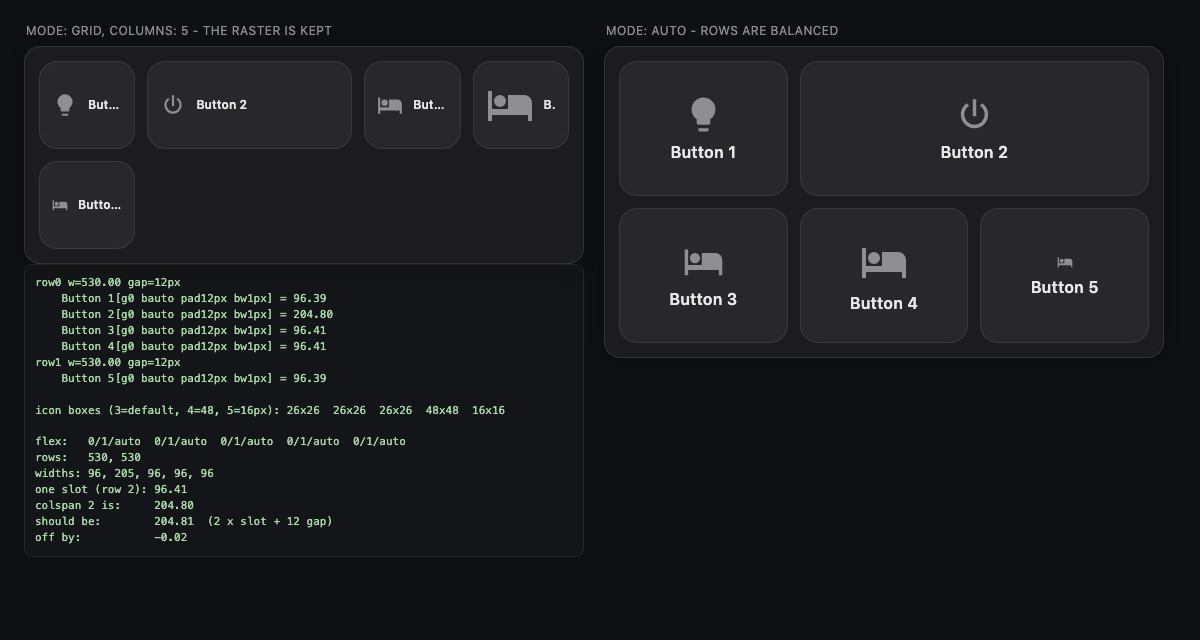
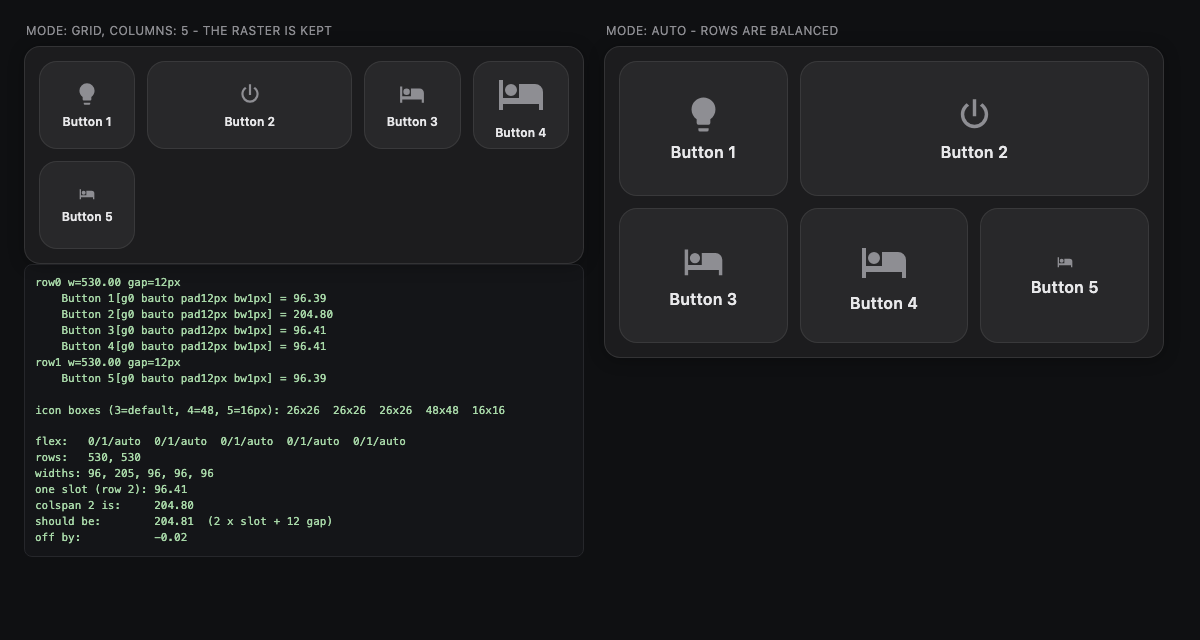
Make the inner button arrangement a choice instead of a guess
The same configuration looked different on two screens: a button flipped from icon-above-text to icon-beside-text once it fell below 96px tall, and the height follows the column width. The guess was usually wrong too - beside a 26px icon a narrow button leaves the label a fraction of its width, where stacking gives it all of it. Horizontal earns its place on buttons that are wide and flat, and the card cannot tell those apart: the height it works from is derived from the width, so the two are never distinguishable, and reading the rendered height would feed the layout back into itself. Tightening the condition to require width as well made the horizontal branch unreachable, which settled it. button.layout now says which one, per card or per button, and names wrap to a second line rather than being clipped to a fragment.

diff --git a/tools/demo/icons.js b/tools/demo/icons.js
@@ -2,6 +2,7 @@
 export const ICONS = {
   "mdi:alert": "M13 14H11V9H13M13 18H11V16H13M1 21H23L12 2L1 21Z",
   "mdi:bed": "M19,7H11V14H3V5H1V20H3V17H21V20H23V11A4,4 0 0,0 19,7M7,13A3,3 0 0,0 10,10A3,3 0 0,0 7,7A3,3 0 0,0 4,10A3,3 0 0,0 7,13Z",
+  "mdi:broom": "M19.36,2.72L20.78,4.14L15.06,9.85C16.13,11.39 16.28,13.24 15.38,14.44L9.06,8.12C10.26,7.22 12.11,7.37 13.65,8.44L19.36,2.72M5.93,17.57C3.92,15.56 2.69,13.16 2.35,10.92L7.23,8.83L14.67,16.27L12.58,21.15C10.34,20.81 7.94,19.58 5.93,17.57Z",
   "mdi:coffee-maker": "M18 6V4H20V2H6C4.9 2 4 2.9 4 4V20C4 21.1 4.9 22 6 22H20V20H15.97C17.2 19.09 18 17.64 18 16V11H8V16C8 17.64 8.81 19.09 10.03 20H6V4H8V6C8 6.55 8.45 7 9 7H17C17.55 7 18 6.55 18 6M13 8C13.55 8 14 8.45 14 9S13.55 10 13 10 12 9.55 12 9 12.45 8 13 8Z",
   "mdi:countertop": "M18 10V7C18 5.34 16.66 4 15 4S12 5.34 12 7H14C14 6.45 14.45 6 15 6S16 6.45 16 7V10H8C9.1 10 10 9.1 10 8V4H4V8C4 9.1 4.9 10 6 10H2V12H4V20H20V12H22V10H18M13 18H11V12H13V18Z",
   "mdi:desk-lamp": "M10.85,2L9.18,4.5L10.32,5.25L7.14,10C7.1,10 7.05,10 7,10A2,2 0 0,0 5,12C5,12.94 5.66,13.75 6.58,13.95L10.62,20H7V22H17V20H13L8.53,13.28C8.83,12.92 9,12.47 9,12C9,11.7 8.93,11.4 8.8,11.13L12,6.37C11.78,8.05 12.75,9.89 14.45,11L18.89,4.37C17.2,3.24 15.12,3.04 13.65,3.87L10.85,2M18.33,7L16.67,9.5C17.35,9.95 18.29,9.77 18.75,9.08C19.21,8.39 19,7.46 18.33,7Z",
@@ -16,6 +17,7 @@ export const ICONS = {
   "mdi:lightbulb-off": "M12,2C9.76,2 7.78,3.05 6.5,4.68L16.31,14.5C17.94,13.21 19,11.24 19,9A7,7 0 0,0 12,2M3.28,4L2,5.27L5.04,8.3C5,8.53 5,8.76 5,9C5,11.38 6.19,13.47 8,14.74V17A1,1 0 0,0 9,18H14.73L18.73,22L20,20.72L3.28,4M9,20V21A1,1 0 0,0 10,22H14A1,1 0 0,0 15,21V20H9Z",
   "mdi:lightbulb-outline": "M12,2A7,7 0 0,1 19,9C19,11.38 17.81,13.47 16,14.74V17A1,1 0 0,1 15,18H9A1,1 0 0,1 8,17V14.74C6.19,13.47 5,11.38 5,9A7,7 0 0,1 12,2M9,21V20H15V21A1,1 0 0,1 14,22H10A1,1 0 0,1 9,21M12,4A5,5 0 0,0 7,9C7,11.05 8.23,12.81 10,13.58V16H14V13.58C15.77,12.81 17,11.05 17,9A5,5 0 0,0 12,4Z",
   "mdi:lock": "M12,17A2,2 0 0,0 14,15C14,13.89 13.1,13 12,13A2,2 0 0,0 10,15A2,2 0 0,0 12,17M18,8A2,2 0 0,1 20,10V20A2,2 0 0,1 18,22H6A2,2 0 0,1 4,20V10C4,8.89 4.9,8 6,8H7V6A5,5 0 0,1 12,1A5,5 0 0,1 17,6V8H18M12,3A3,3 0 0,0 9,6V8H15V6A3,3 0 0,0 12,3Z",
+  "mdi:motion-sensor": "M10,0.2C9,0.2 8.2,1 8.2,2C8.2,3 9,3.8 10,3.8C11,3.8 11.8,3 11.8,2C11.8,1 11,0.2 10,0.2M15.67,1A7.33,7.33 0 0,0 23,8.33V7A6,6 0 0,1 17,1H15.67M18.33,1C18.33,3.58 20.42,5.67 23,5.67V4.33C21.16,4.33 19.67,2.84 19.67,1H18.33M21,1A2,2 0 0,0 23,3V1H21M7.92,4.03C7.75,4.03 7.58,4.06 7.42,4.11L2,5.8V11H3.8V7.33L5.91,6.67L2,22H3.8L6.67,13.89L9,17V22H10.8V15.59L8.31,11.05L9.04,8.18L10.12,10H15V8.2H11.38L9.38,4.87C9.08,4.37 8.54,4.03 7.92,4.03Z",
   "mdi:palette": "M17.5,12A1.5,1.5 0 0,1 16,10.5A1.5,1.5 0 0,1 17.5,9A1.5,1.5 0 0,1 19,10.5A1.5,1.5 0 0,1 17.5,12M14.5,8A1.5,1.5 0 0,1 13,6.5A1.5,1.5 0 0,1 14.5,5A1.5,1.5 0 0,1 16,6.5A1.5,1.5 0 0,1 14.5,8M9.5,8A1.5,1.5 0 0,1 8,6.5A1.5,1.5 0 0,1 9.5,5A1.5,1.5 0 0,1 11,6.5A1.5,1.5 0 0,1 9.5,8M6.5,12A1.5,1.5 0 0,1 5,10.5A1.5,1.5 0 0,1 6.5,9A1.5,1.5 0 0,1 8,10.5A1.5,1.5 0 0,1 6.5,12M12,3A9,9 0 0,0 3,12A9,9 0 0,0 12,21A1.5,1.5 0 0,0 13.5,19.5C13.5,19.11 13.35,18.76 13.11,18.5C12.88,18.23 12.73,17.88 12.73,17.5A1.5,1.5 0 0,1 14.23,16H16A5,5 0 0,0 21,11C21,6.58 16.97,3 12,3Z",
   "mdi:power": "M16.56,5.44L15.11,6.89C16.84,7.94 18,9.83 18,12A6,6 0 0,1 12,18A6,6 0 0,1 6,12C6,9.83 7.16,7.94 8.88,6.88L7.44,5.44C5.36,6.88 4,9.28 4,12A8,8 0 0,0 12,20A8,8 0 0,0 20,12C20,9.28 18.64,6.88 16.56,5.44M13,3H11V13H13",
   "mdi:radiator": "M7.95,3L6.53,5.19L7.95,7.4H7.94L5.95,10.5L4.22,9.6L5.64,7.39L4.22,5.19L6.22,2.09L7.95,3M13.95,2.89L12.53,5.1L13.95,7.3L13.94,7.31L11.95,10.4L10.22,9.5L11.64,7.3L10.22,5.1L12.22,2L13.95,2.89M20,2.89L18.56,5.1L20,7.3V7.31L18,10.4L16.25,9.5L17.67,7.3L16.25,5.1L18.25,2L20,2.89M2,22V14A2,2 0 0,1 4,12H20A2,2 0 0,1 22,14V22H20V20H4V22H2M6,14A1,1 0 0,0 5,15V17A1,1 0 0,0 6,18A1,1 0 0,0 7,17V15A1,1 0 0,0 6,14M10,14A1,1 0 0,0 9,15V17A1,1 0 0,0 10,18A1,1 0 0,0 11,17V15A1,1 0 0,0 10,14M14,14A1,1 0 0,0 13,15V17A1,1 0 0,0 14,18A1,1 0 0,0 15,17V15A1,1 0 0,0 14,14M18,14A1,1 0 0,0 17,15V17A1,1 0 0,0 18,18A1,1 0 0,0 19,17V15A1,1 0 0,0 18,14Z",
@@ -33,6 +35,7 @@ export const ICONS = {
   "mdi:washing-machine": "M14.83,11.17C16.39,12.73 16.39,15.27 14.83,16.83C13.27,18.39 10.73,18.39 9.17,16.83L14.83,11.17M6,2H18A2,2 0 0,1 20,4V20A2,2 0 0,1 18,22H6A2,2 0 0,1 4,20V4A2,2 0 0,1 6,2M7,4A1,1 0 0,0 6,5A1,1 0 0,0 7,6A1,1 0 0,0 8,5A1,1 0 0,0 7,4M10,4A1,1 0 0,0 9,5A1,1 0 0,0 10,6A1,1 0 0,0 11,5A1,1 0 0,0 10,4M12,8A6,6 0 0,0 6,14A6,6 0 0,0 12,20A6,6 0 0,0 18,14A6,6 0 0,0 12,8Z",
   "mdi:water-percent": "M12,3.25C12,3.25 6,10 6,14C6,17.32 8.69,20 12,20A6,6 0 0,0 18,14C18,10 12,3.25 12,3.25M14.47,9.97L15.53,11.03L9.53,17.03L8.47,15.97M9.75,10A1.25,1.25 0 0,1 11,11.25A1.25,1.25 0 0,1 9.75,12.5A1.25,1.25 0 0,1 8.5,11.25A1.25,1.25 0 0,1 9.75,10M14.25,14.5A1.25,1.25 0 0,1 15.5,15.75A1.25,1.25 0 0,1 14.25,17A1.25,1.25 0 0,1 13,15.75A1.25,1.25 0 0,1 14.25,14.5Z",
   "mdi:weather-night": "M17.75,4.09L15.22,6.03L16.13,9.09L13.5,7.28L10.87,9.09L11.78,6.03L9.25,4.09L12.44,4L13.5,1L14.56,4L17.75,4.09M21.25,11L19.61,12.25L20.2,14.23L18.5,13.06L16.8,14.23L17.39,12.25L15.75,11L17.81,10.95L18.5,9L19.19,10.95L21.25,11M18.97,15.95C19.8,15.87 20.69,17.05 20.16,17.8C19.84,18.25 19.5,18.67 19.08,19.07C15.17,23 8.84,23 4.94,19.07C1.03,15.17 1.03,8.83 4.94,4.93C5.34,4.53 5.76,4.17 6.21,3.85C6.96,3.32 8.14,4.21 8.06,5.04C7.79,7.9 8.75,10.87 10.95,13.06C13.14,15.26 16.1,16.22 18.97,15.95M17.33,17.97C14.5,17.81 11.7,16.64 9.53,14.5C7.36,12.31 6.2,9.5 6.04,6.68C3.23,9.82 3.34,14.64 6.35,17.66C9.37,20.67 14.19,20.78 17.33,17.97Z",
+  "mdi:weather-rainy": "M6,14.03A1,1 0 0,1 7,15.03C7,15.58 6.55,16.03 6,16.03C3.24,16.03 1,13.79 1,11.03C1,8.27 3.24,6.03 6,6.03C7,3.68 9.3,2.03 12,2.03C15.43,2.03 18.24,4.69 18.5,8.06L19,8.03A4,4 0 0,1 23,12.03C23,14.23 21.21,16.03 19,16.03H18C17.45,16.03 17,15.58 17,15.03C17,14.47 17.45,14.03 18,14.03H19A2,2 0 0,0 21,12.03A2,2 0 0,0 19,10.03H17V9.03C17,6.27 14.76,4.03 12,4.03C9.5,4.03 7.45,5.84 7.06,8.21C6.73,8.09 6.37,8.03 6,8.03A3,3 0 0,0 3,11.03A3,3 0 0,0 6,14.03M12,14.15C12.18,14.39 12.37,14.66 12.56,14.94C13,15.56 14,17.03 14,18C14,19.11 13.1,20 12,20A2,2 0 0,1 10,18C10,17.03 11,15.56 11.44,14.94C11.63,14.66 11.82,14.4 12,14.15M12,11.03L11.5,11.59C11.5,11.59 10.65,12.55 9.79,13.81C8.93,15.06 8,16.56 8,18A4,4 0 0,0 12,22A4,4 0 0,0 16,18C16,16.56 15.07,15.06 14.21,13.81C13.35,12.55 12.5,11.59 12.5,11.59",
   "mdi:window-closed": "M6,11H10V9H14V11H18V4H6V11M18,13H6V20H18V13M6,2H18A2,2 0 0,1 20,4V20A2,2 0 0,1 18,22H6A2,2 0 0,1 4,20V4A2,2 0 0,1 6,2Z",
   "mdi:window-open": "M6,8H10V6H14V8H18V4H6V8M18,10H6V15H18V10M6,20H18V17H6V20M6,2H18A2,2 0 0,1 20,4V20A2,2 0 0,1 18,22H6A2,2 0 0,1 4,20V4A2,2 0 0,1 6,2Z",
   "mdi:window-shutter": "M3 4H21V8H19V20H17V8H7V20H5V8H3V4M8 9H16V11H8V9M8 12H16V14H8V12M8 15H16V17H8V15M8 18H16V20H8V18Z"

diff --git a/multi-button-card.js b/multi-button-card.js
@@ -16,7 +16,7 @@
  *   9. Registration
  */
 
-const CARD_VERSION = '1.6.0';
+const CARD_VERSION = '1.7.0';
 
 /**
  * The repository is prefixed, the card tag is not: the prefix groups the repo
@@ -168,6 +168,22 @@ const DEFAULT_BUTTON = {
   show_name: true,
   show_state: 'auto',
   press_effect: 'scale', // scale | fade | none
+  /**
+   * How the icon and the text sit together: `vertical` (icon above) or
+   * `horizontal` (icon beside).
+   *
+   * This used to switch by itself once a button fell below 96px tall, which
+   * did the wrong thing more often than not: beside a 26px icon a narrow
+   * button leaves the label a fraction of its width, where stacking gives it
+   * all of it. The automatic version also could not tell a flat-and-wide
+   * button from a flat-and-narrow one - the height it works from is derived
+   * from the width, so the two are never distinguishable, and reading the
+   * rendered height instead would feed the layout back into itself.
+   *
+   * So it is a decision, not a guess. `auto` is still accepted and means
+   * vertical.
+   */
+  layout: 'vertical', // vertical | horizontal
 };
 
 const DEFAULT_ANIMATION = {
@@ -235,6 +251,7 @@ function normalizeButton(raw, index, buttonDefaults, animationDefaults) {
     icon_size: src.icon_size ?? buttonDefaults.icon_size,
     label_size: src.label_size ?? buttonDefaults.label_size,
     press_effect: src.press_effect ?? buttonDefaults.press_effect,
+    layout: src.layout ?? buttonDefaults.layout,
     show_name: src.show_name ?? buttonDefaults.show_name,
     show_state: src.show_state ?? buttonDefaults.show_state,
     state_display: src.state_display ?? null,
@@ -282,7 +299,8 @@ function normalizeButton(raw, index, buttonDefaults, animationDefaults) {
 /**
  * The fields a template may fill. Presentation only: `entity` would break
  * state tracking, `colspan` would rebuild the layout on every update, and the
- * actions are structure rather than appearance.
+ * actions are structure rather than appearance. `layout` is read in the layout
+ * pass rather than the state sync, so a template there would never run.
  */
 const TEMPLATED_FIELDS = [
   'name',
@@ -1253,9 +1271,15 @@ ha-card.card {
   letter-spacing: 0.005em;
   color: var(--mbc-text);
   max-width: 100%;
+  /* Up to two lines, then an ellipsis. A single clipped line turns a name into
+     a fragment like "Ha..." that says less than nothing; wrapping keeps it
+     readable in the narrow columns where this actually happens. */
+  display: -webkit-box;
+  -webkit-line-clamp: 2;
+  line-clamp: 2;
+  -webkit-box-orient: vertical;
   overflow: hidden;
-  text-overflow: ellipsis;
-  white-space: nowrap;
+  overflow-wrap: break-word;
 }
 
 /* When any button in a row shows a state line, every button in THAT row
@@ -1268,6 +1292,8 @@ ha-card.card {
 }
 
 .state {
+  /* One line: a state is short, and a wrapped value reads worse than a
+     shortened one. */
   font-size: calc(var(--mbc-label-size) - 2px);
   line-height: 1.2;
   color: var(--mbc-text-dim);
@@ -1766,10 +1792,11 @@ class MultiButtonCard extends BaseElement {
 
     // Cell geometry decides the inner arrangement - deterministic, so no jitter.
     const columnWidth = columns > 0 ? innerWidth / columns : innerWidth;
-    const compact = cellHeight < 96;
+
     const iconOnly = columnWidth < 74;
-    this._cells.forEach((cell) => {
-      cell.root.classList.toggle('compact', compact);
+    this._cells.forEach((cell, index) => {
+      const button = this._config.buttons[index];
+      cell.root.classList.toggle('compact', button && button.layout === 'horizontal');
       cell.root.classList.toggle('icon-only', iconOnly);
     });
     this._lastVisibleKey = visible.join(',');
@@ -2228,6 +2255,7 @@ const LABELS = {
   show_name: 'Show name',
   show_state: 'Show state',
   press_effect: 'Press effect',
+  layout: 'Icon and text',
   animation: 'Animation',
   type: 'Type',
   duration: 'Duration',
@@ -2407,6 +2435,10 @@ const cardSchema = (mode) => [
         { value: 'fade', label: 'Brighten' },
         { value: 'none', label: 'None' },
       ]),
+      select('layout', [
+        { value: 'vertical', label: 'Icon above the text' },
+        { value: 'horizontal', label: 'Icon beside the text' },
+      ]),
     ],
   },
   {
@@ -2441,6 +2473,10 @@ const BUTTON_SCHEMA = [
     title: 'Display',
     icon: 'mdi:text-short',
     schema: [
+      select('layout', [
+        { value: 'vertical', label: 'Icon above the text' },
+        { value: 'horizontal', label: 'Icon beside the text' },
+      ]),
       { name: 'show_name', selector: { boolean: {} } },
       {
         name: 'show_state',
@@ -2552,6 +2588,7 @@ const BUTTON_FORM_KEYS = [
   'hold_action',
   'double_tap_action',
   'animation',
+  'layout',
 ];
 
 /** `show_state` round-trips through a select, which only carries strings. */
@@ -2953,6 +2990,7 @@ class MultiButtonCardEditor extends BaseElement {
       background: button.background ?? '',
       active_background: button.active_background ?? '',
       style: button.style ?? '',
+      layout: button.layout ?? (this._config.button || {}).layout ?? 'vertical',
       show_name: button.show_name ?? true,
       show_state: showStateToForm(button.show_state),
       confirmation: button.confirmation === true || (button.confirmation && typeof button.confirmation === 'object'),
@@ -2981,6 +3019,7 @@ class MultiButtonCardEditor extends BaseElement {
         background: value.background,
         active_background: value.active_background,
         style: value.style,
+        layout: value.layout,
         show_name: value.show_name,
         show_state: showStateFromForm(value.show_state),
         confirmation: value.confirmation,
@@ -2994,6 +3033,7 @@ class MultiButtonCardEditor extends BaseElement {
         show_name: true,
         show_state: 'auto',
         confirmation: false,
+        layout: (this._config.button || {}).layout ?? 'vertical',
         icon_size: toNumber((this._config.button || {}).icon_size, undefined),
         icon_color: (this._config.button || {}).icon_color,
         active_color: (this._config.button || {}).active_color,

diff --git a/tools/demo/index.html b/tools/demo/index.html
@@ -85,6 +85,27 @@
   <div class="frame" style="width: 360px"><div id="portrait-host"></div></div>
 </div>
 
+<!-- Scene: icon above vs. beside the text -->
+<div class="scene" id="scene-inner">
+  <div class="strip">
+    <div class="col" style="width: 500px">
+      <p class="caption">500 px, 4 Spalten - Standard (vertikal)</p><div id="in-a"></div>
+    </div>
+    <div class="col" style="width: 500px">
+      <p class="caption">500 px, 4 Spalten - layout: horizontal</p><div id="in-b"></div>
+    </div>
+  </div>
+  <div class="strip" style="margin-top: 16px">
+    <div class="col" style="width: 700px">
+      <p class="caption">700 px, 4 Spalten - layout: horizontal</p><div id="in-c"></div>
+    </div>
+    <div class="col" style="width: 300px">
+      <p class="caption">300 px - lange Namen, zweizeilig</p><div id="in-d"></div>
+    </div>
+  </div>
+  <pre id="in-out"></pre>
+</div>
+
 <!-- Scene: opaque buttons on a translucent card -->
 <div class="scene" id="scene-opaque">
   <div id="opaque-bg" style="background-image: linear-gradient(135deg,#2b4b6f 0%,#6f4b2b 50%,#2b6f4b 100%); padding: 20px; border-radius: 12px;">
@@ -582,6 +603,40 @@ const SCENES = {
         { name: 'Außen', icon: 'mdi:thermometer', entity: 'sensor.aussen_temperatur', show_state: true },
       ],
     }, document.getElementById('portrait-host'));
+  },
+
+  inner() {
+    // The user's own four buttons.
+    const four = [
+      { name: 'Haustür', entity: 'binary_sensor.fenster', icon: 'mdi:door-open', show_state: true, state_display: 'Geöffnet' },
+      { name: 'Fenster', entity: 'binary_sensor.fenster', icon: 'mdi:window-closed', show_state: true, state_display: 'Geöffnet: 1' },
+      { name: 'Bewegung', entity: 'binary_sensor.waschmaschine', icon: 'mdi:motion-sensor', show_state: true, state_display: '1 aktiv' },
+      { name: 'Regensensor', entity: 'light.kueche', icon: 'mdi:weather-rainy', show_state: true, state_display: 'kein Regen' },
+    ];
+    // Four in one row is what makes the columns narrow enough to flip.
+    const row = { mode: 'grid', columns: 4 };
+    const a = card({ layout: row, buttons: four }, document.getElementById('in-a'));
+    card({ layout: row, button: { layout: 'horizontal' }, buttons: four },
+      document.getElementById('in-b'));
+    card({ layout: row, button: { layout: 'horizontal' }, buttons: four },
+      document.getElementById('in-c'));
+    card({ buttons: [
+      { name: 'Wintergarten hinten', entity: 'light.wohnzimmer', icon: 'mdi:sofa' },
+      { name: 'Abstellkammer', entity: 'light.kueche', icon: 'mdi:broom' },
+    ] }, document.getElementById('in-d'));
+
+    requestAnimationFrame(() => {
+      const look = (el) => el.shadowRoot.querySelector('.btn').classList.contains('compact')
+        ? 'horizontal' : 'vertikal';
+      const cells = (el) => {
+        const g = el.shadowRoot.querySelector('.grid');
+        return g.style.getPropertyValue('--mbc-cell-h');
+      };
+      document.getElementById('in-out').textContent =
+        `500px, Standard               -> ${look(a)}\n` +
+        `500px, layout: horizontal      -> ${look(document.querySelector('#in-b multi-button-card'))}  (zu schmal - deshalb nicht der Standard)\n` +
+        `700px, layout: horizontal      -> ${look(document.querySelector('#in-c multi-button-card'))}  (hier sinnvoll)`;
+    });
   },
 
   opaque() {

diff --git a/test/layout.test.js b/test/layout.test.js
@@ -344,3 +344,22 @@ test('the grid footprint uses the same partitioning the renderer does', () => {
   // computed from the strict partition, not the balanced one.
   assert.ok(computeContentHeight(strict, 480) > 0);
 });
+
+/* -- icon and text arrangement -------------------------------------------- */
+
+test('the inner arrangement is a choice, not a guess', () => {
+  const config = normalizeConfig({
+    button: { layout: 'horizontal' },
+    buttons: [{ name: 'a' }, { name: 'b', layout: 'vertical' }],
+  });
+  assert.equal(config.buttons[0].layout, 'horizontal', 'card default applies');
+  assert.equal(config.buttons[1].layout, 'vertical', 'the button overrides it');
+});
+
+test('it defaults to vertical, and auto is accepted as the old spelling', () => {
+  assert.equal(normalizeConfig({ buttons: [{}] }).buttons[0].layout, 'vertical');
+  // 'auto' used to mean "switch by yourself"; it now just means vertical, and
+  // anything that is not 'horizontal' renders vertically.
+  const legacy = normalizeConfig({ buttons: [{ layout: 'auto' }] });
+  assert.notEqual(legacy.buttons[0].layout, 'horizontal');
+});

diff --git a/README.md b/README.md
@@ -65,7 +65,7 @@ Adding it by hand instead:
    - Type: **JavaScript module**
 3. Reload the browser
 
-Confirm it loaded: the browser console prints `multi-button-card v1.6.0` on
+Confirm it loaded: the browser console prints `multi-button-card v1.7.0` on
 startup.
 
 ---
@@ -159,10 +159,23 @@ mode: grid                         mode: auto
 
 ![Both layout modes](docs/images/layout-modes.png)
 
-Below 96 px of button height the button switches to a horizontal inner layout —
-icon left, text right — instead of squeezing the label. This keeps a card with
-ten buttons in a narrow column readable rather than cramped. The switch depends
-only on the computed cell height, so it cannot oscillate.
+Inside a button, the icon sits above the text. `button.layout: horizontal` puts
+it beside the text instead — per card or per button:
+
+```yaml
+button:
+  layout: horizontal     # vertical (default) | horizontal
+```
+
+This used to switch by itself below a certain button height. It has been made a
+decision because the guess was usually wrong: beside a 26 px icon a narrow
+button leaves the label a fraction of its width, where stacking gives it all of
+it. Horizontal earns its place on buttons that are wide *and* flat — and the
+card cannot tell those apart, since the height it works from is derived from
+the width.
+
+Names wrap onto a second line rather than being cut off. Below 74 px of column
+width the text is dropped entirely and only the icon remains.
 
 Within a row, all buttons reserve room for the state line as soon as one of them
 uses it. Otherwise the icons and names of neighbouring buttons would sit at
@@ -253,6 +266,7 @@ Every key here can also be set on an individual button, where it wins.
 | `show_name` | boolean | `true` | Show the name line |
 | `show_state` | boolean \| `auto` | `auto` | See below |
 | `press_effect` | `scale` \| `fade` \| `none` | `scale` | Touch feedback |
+| `layout` | `vertical` \| `horizontal` | `vertical` | Icon above or beside the text |
 
 **`show_state: auto`** shows the state only for domains whose state carries a
 value — `sensor`, `climate`, `cover`, `media_player`, `lock`, … For a light or a
@@ -636,7 +650,8 @@ mock `hass` object and stubs for `<ha-icon>`, `<ha-state-icon>` and `<ha-form>`,
 so the images in this README always show the current code. Serve the repo root
 and open `tools/demo/index.html?scene=overview`.
 
-Scenes: `overview`, `counts`, `portrait`, `landscape`, `theme` and `opaque`
+Scenes: `overview`, `counts`, `portrait`, `landscape`, `inner` (icon above vs. beside the
+text), `theme` and `opaque`
 (how a card-mod theme reaches the card, and how to keep buttons opaque under
 one), `constrained` (how the
 card behaves in a sections grid cell), `colspan` (both layout modes with the

diff --git a/CHANGELOG.md b/CHANGELOG.md
@@ -6,6 +6,29 @@ All notable changes to this project are documented here. The format follows
 
 ## [Unreleased]
 
+## [1.7.0] - 2026-09-22
+
+### Added
+
+- `button.layout`, `vertical` or `horizontal`, deciding whether the icon sits
+  above or beside the text. Settable per card and per button.
+
+### Changed
+
+- **The inner arrangement no longer switches by itself.** A button used to flip
+  to icon-beside-text once it fell below 96px tall, which is why the same
+  configuration looked different on two screens. The guess was usually wrong as
+  well: beside a 26px icon a narrow button leaves the label a fraction of its
+  width, where stacking gives it all of it. Horizontal earns its place on
+  buttons that are wide *and* flat, and the card cannot tell those apart -
+  the height it works from is derived from the width, so the two are never
+  distinguishable, and reading the rendered height instead would feed the
+  layout back into itself. The default is `vertical`; `auto` is still accepted
+  and means the same.
+- Names wrap onto a second line instead of being cut off. A clipped "Ha..."
+  says less than a wrapped name, and hiding the name entirely is already
+  available through `show_name: false`.
+
 ## [1.6.0] - 2026-09-22
 
 ### Changed
